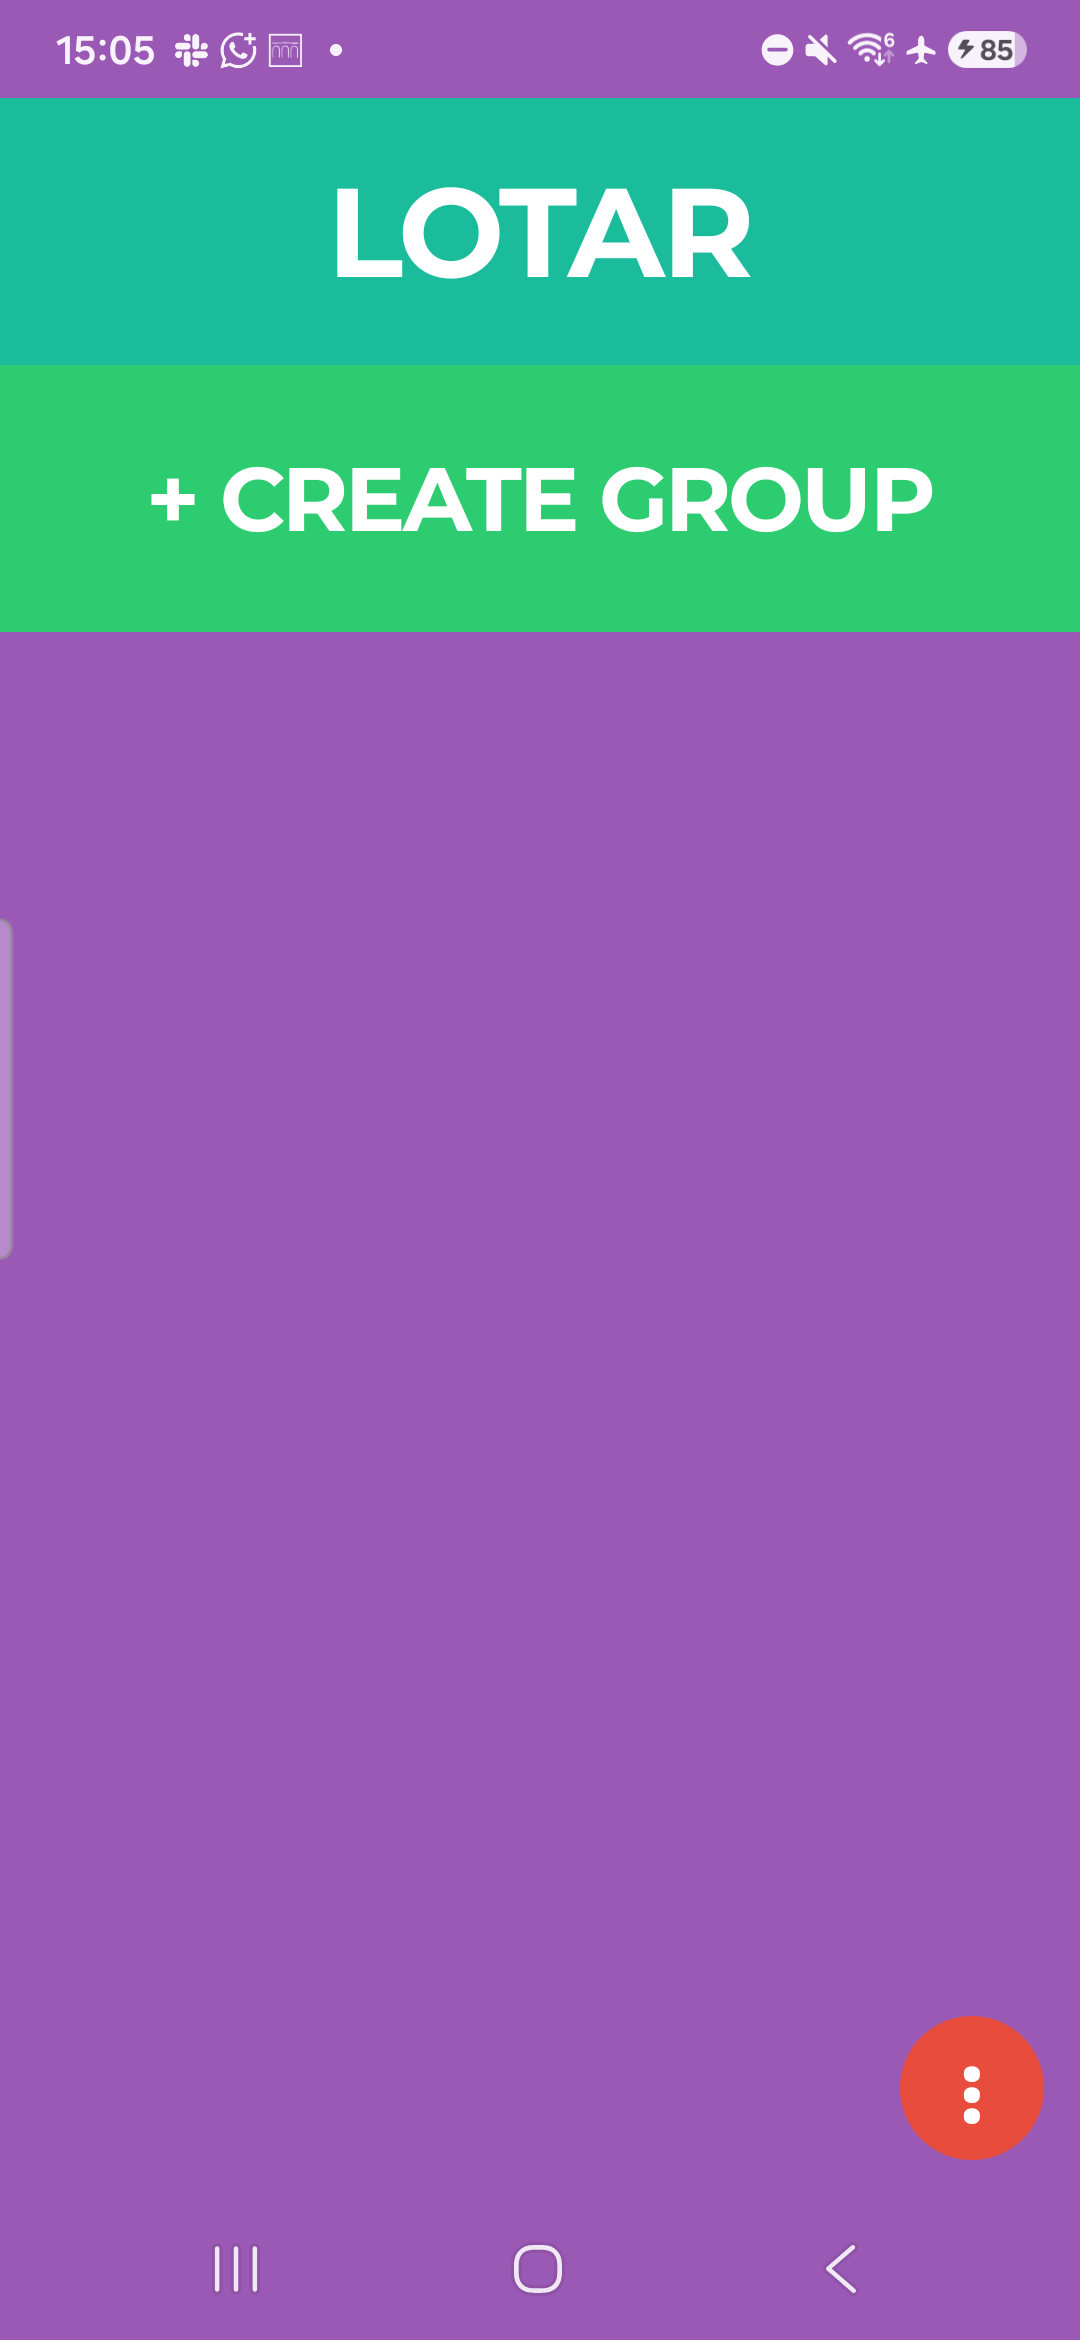
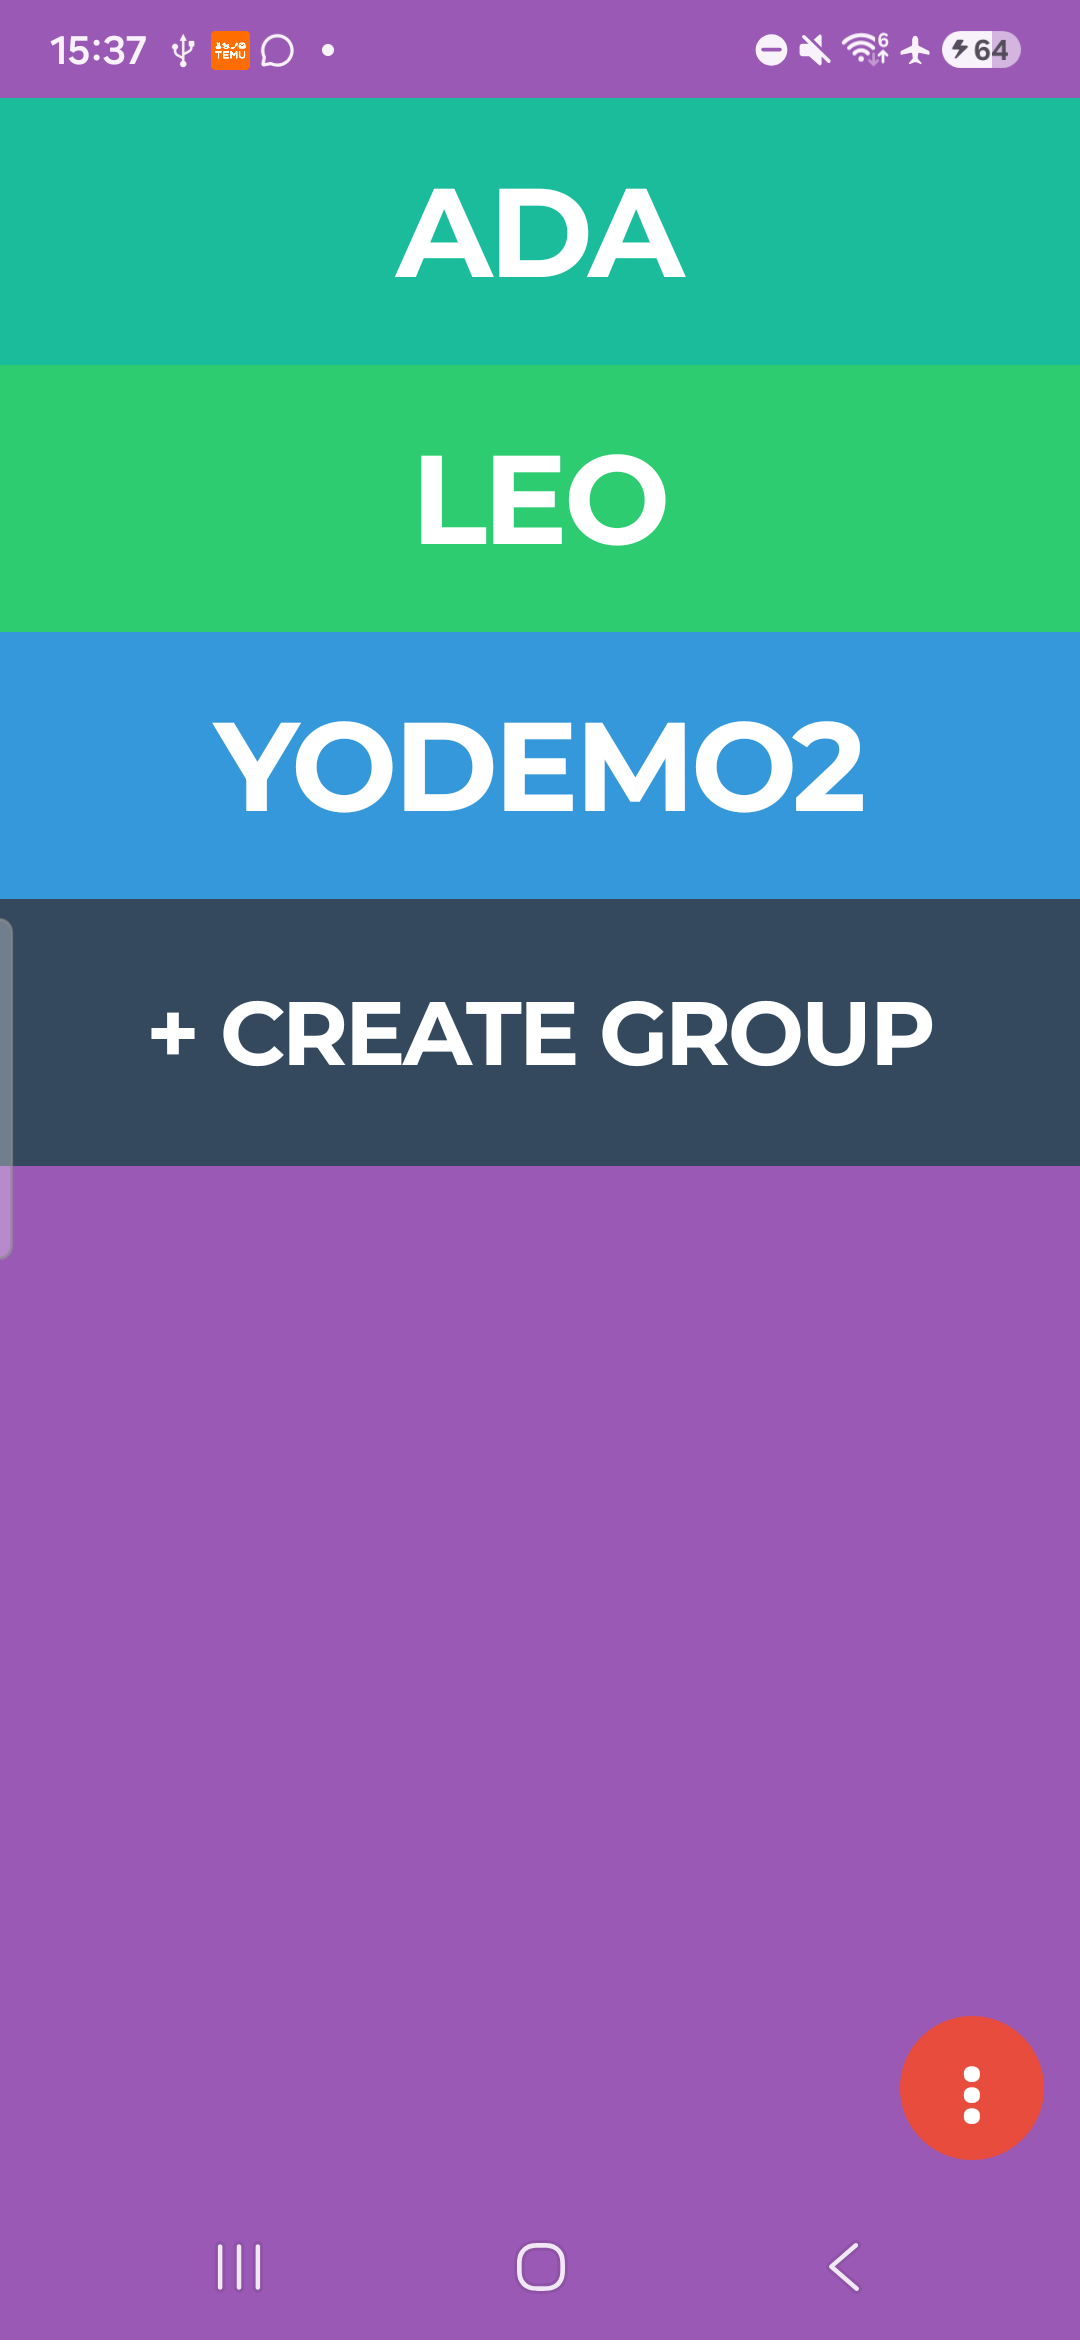
Recapture the store screenshots on hardware, and close the reviewer gap (#40)
Everything here needed a physical device, which is why it sat open.

The screenshots were stale in a way no check would have caught: sc-menu.png was
captured on 27 July and shows 7 menu rows, while the app has shipped 8 since
BLOCKED landed with G26 on the 28th. Both are recaptured on a Galaxy S23 from a
release build of HEAD, 1080x2340 RGB. The home shot now shows three friend
bands instead of one, so the colour cycle reads as designed - it is a function
of POSITION, and ADA/LEO/YODEMO2 render Turquoise/Emerald/Peter in order.

The APK on disk was stale for the same reason as the AAB before it: built
2026-07-28 12:20, four merges behind. Rebuilt from HEAD and verified with the
input proven non-empty - 12 permissions, zero CAMERA.

App access is now answerable. YODEMO1/YODEMO2 already existed with a
bidirectional friendship; what was missing was narrower than "the demo account
does not exist", which is what the docs implied because the accounts were never
recorded in them. YODEMO2 had no devices row, so POST /v1/send answered 404
recipient_unregistered and a reviewer's first tap would have visibly failed.
Signing in as YODEMO2 on the S23 registered a real FCM token; the send now
returns {"delivered":true} and the notification was observed arriving. Both
directions verified. Credentials are in store/listing.md, along with the note
that four production accounts need deleting after launch.

Verified on the device while it was in hand, all of which the JVM suite cannot
[…]

diff --git a/docs/PRD.md b/docs/PRD.md
@@ -1314,10 +1314,11 @@ Worth naming how it got in: the plan for G30 said *client sanitise and server re
 the three pieces shipped. A partial implementation of a rule reads as complete right up until
 somebody types the ordinary thing.
 
-**G35 — the three failure rows can sit below the fold. — OPEN.** `COULDN'T LOAD FRIENDS`,
-`NOT RECEIVING YOS` and `COULDN'T YO <NAME>` are all appended as items *after* every 89dp band in
-the same `LazyColumn`. With roughly seven or more friends and groups they are off-screen on a normal
-handset. The delivered flash is drawn on the band itself, so success is always visible and only
+**G35 — the three failure rows can sit below the fold. — OPEN, now MEASURED on hardware.**
+`COULDN'T LOAD FRIENDS`, `NOT RECEIVING YOS` and `COULDN'T YO <NAME>` are all appended as items
+*after* every 89dp band in the same `LazyColumn`. Measured on a Galaxy S23 (1080x2340, density 480,
+so scale 3.0 and an 89dp band is 267px) against 2,120px of usable height between the status and
+navigation bars: **seven bands fit, and at eight the failure rows are pushed off-screen.** The delivered flash is drawn on the band itself, so success is always visible and only
 failure can scroll away — which quietly re-opens G25 for exactly the accounts that use the app most.
 Pinning them above the bands, or floating them, is the fix; it is layout work that wants a device to
 judge, and no unit test can see it (the same class as G22).
@@ -1331,6 +1332,19 @@ request became an affirmative claim that you have blocked no one — on the one 
 purpose is the safety control FR9 names. `loadFriends` already distinguished a failed load from an
 empty one, and that asymmetry is what identified this rather than any judgement about severity. The
 sheet now reads `COULDN'T LOAD THIS LIST`, and the flag clears once the server answers.
+
+**G37 — the eighth menu band renders 80px of its 267px. — OPEN, cosmetic.** Found on a Galaxy S23,
+29 July 2026. The menu sheet holds eight 89dp bands plus a drag handle, which overflows the sheet's
+maximum height, so `DELETE ACCOUNT` — the last one — is clipped to roughly the top third of its
+band, and the sheet does not scroll to reveal the rest.
+
+**It is reachable, and that was verified rather than assumed**: tapping the visible strip opens the
+deletion confirmation sheet. So this is not G22 repeating — that was a control with a ~30px live
+target under the navigation bar, and this one has ~80px and works. But it is the same *shape*, on
+the same screen, protecting the same Play requirement, and it arrived the same way: a band was added
+(BLOCKED, G26) without anyone asking what the eighth band does to a sheet sized for seven.
+
+Worth fixing before the count grows again — a ninth band would push `DELETE ACCOUNT` out entirely.
 
 ---
 

diff --git a/store/listing.md b/store/listing.md
@@ -111,19 +111,37 @@ the-shop.hr organisation, so the declaration must be **All functionality is rest
 username/password demo account, and must say so:
 
 ```
-Sign in with the username and password below using SIGN UP / LOG IN on the first screen.
-Do NOT use CONTINUE WITH GOOGLE - Google sign-in is currently restricted to our organisation's
-accounts and will fail for you.
+Username: YODEMO1
+Password: YomyoU4NTT1pe8ik
 
-The demo account already has one friend so the main screen is populated. Tap the coloured band
-to send a Yo; long-press it to attach a link, a hashtag or a location, or to block/remove.
+Sign in with LOG IN on the first screen. Do NOT use CONTINUE WITH GOOGLE - Google sign-in is
+currently restricted to our organisation's accounts and will fail for you.
+
+The account already has three friends, so the main screen is populated. Tap a coloured band to
+send a Yo. Long-press a band to attach a link, a hashtag or a location, or to remove or block
+that person. The red button at the bottom right opens the menu, which holds the privacy policy,
+the blocked list, and account deletion.
 ```
 
-Two things must be true before this is submitted, or the reviewer sees a broken app:
-1. the demo account has at least one friend, in BOTH directions - `list_friends` selects on
-   `owner` only, so a single `add_friend` call populates one side and leaves the other empty;
-2. the friend has registered a device at least once, otherwise `POST /v1/send` answers 404
-   `recipient_unregistered` and the reviewer's Yo visibly fails.
+**Both preconditions are now satisfied, verified on a Galaxy S23 on 29 July 2026.**
+
+| | |
+|---|---|
+| Username | `YODEMO1` |
+| Password | `YomyoU4NTT1pe8ik` |
+| Friends visible on the home screen | `ADA`, `LEO`, `YODEMO2` |
+
+1. ~~the demo account has at least one friend, in BOTH directions~~ - done. `list_friends`
+   selects on `owner` only, so a single `add_friend` populates one side and leaves the other
+   empty; `YODEMO1` and `YODEMO2` are friends both ways.
+2. ~~the friend has registered a device~~ - done, and this was the part that could only be
+   closed with a handset. `YODEMO2` had no `devices` row, so `POST /v1/send` answered 404
+   `recipient_unregistered` and a reviewer's first tap would have visibly failed. Signing in as
+   `YODEMO2` on a real device registered an FCM token; `YODEMO1 -> YODEMO2` now returns
+   `{"delivered":true}` and the push was observed arriving. Both directions were then verified.
+
+**These are real accounts in the production database and must be deleted after launch**, the same
+way `GTEST` was (PRD section 7.1). Four to remove: `YODEMO1`, `YODEMO2`, `ADA`, `LEO`.
 
 ## Category and contact
 

diff --git a/docs/RELEASE.md b/docs/RELEASE.md
@@ -35,7 +35,7 @@ open - including the reviewer's, whom this document already tells not to use it.
 | In-app account deletion | Done - menu, DELETE ACCOUNT band |
 | Web account-deletion URL | Done - served at `/delete-account` |
 | 512x512 icon, 1024x500 feature graphic | Done - `store/`, regenerate with `tools/generate-store-assets.py`. Icon is now **32-bit RGBA**; the 24-bit version Play rejects was shipped until 28 Jul 2026, see section 7 |
-| Phone screenshots (min 2) | **Outstanding** - both are **RGB, and Play's spec is no-alpha, so the mode is right**; but `sc-menu.png` predates the BLOCKED band and shows 7 of the app's 8 menu rows. Needs a recapture on a handset, see section 7 |
+| Phone screenshots (min 2) | Done (29 Jul 2026) - **recaptured on a Galaxy S23 from a release build of HEAD**, 1080x2340 RGB. The menu shot now shows all 8 rows including BLOCKED; the home shot shows three friend bands rather than one |
 | Release artifact matches HEAD | **Outstanding** - the `.aab` must be **rebuilt from HEAD before upload**; the one previously on disk predates the CAMERA removal, see section 4 |
 | Data safety declaration | Answers prepared in section 6; must be typed into the Console |
 | Content rating questionnaire | **Answers done, entry outstanding** - fully derived in `store/listing.md`; the questionnaire itself is Console-only |
@@ -49,7 +49,7 @@ open - including the reviewer's, whom this document already tells not to use it.
 | FCM for `hr.theshop.yo` | Done - app + both SHA-1s in `yo-theshop` |
 | Google sign-in for `hr.theshop.yo` | Done - all clients in `yo-theshop` (G16 closed); not yet re-verified on device |
 | OAuth consent screen off `orgInternalOnly` | **Outstanding** - Console only, blocks every non-`the-shop.hr` account |
-| App access - credentials for the reviewer | **Half done** - the declaration and the instructions text are drafted in `store/listing.md`; the demo **account itself still does not exist** and cannot be a Google one. See section 9 item 11 |
+| App access - credentials for the reviewer | Done (29 Jul 2026) - `YODEMO1` / `YomyoU4NTT1pe8ik`, three friends visible, and `YODEMO2` now has a registered device so a reviewer's Yo actually delivers. Credentials and instructions in `store/listing.md`. **Four accounts to delete after launch** |
 | Closed testing, 12 testers x 14 days | **Unknown** - see section 9 |
 
 ## 2. Toolchain
